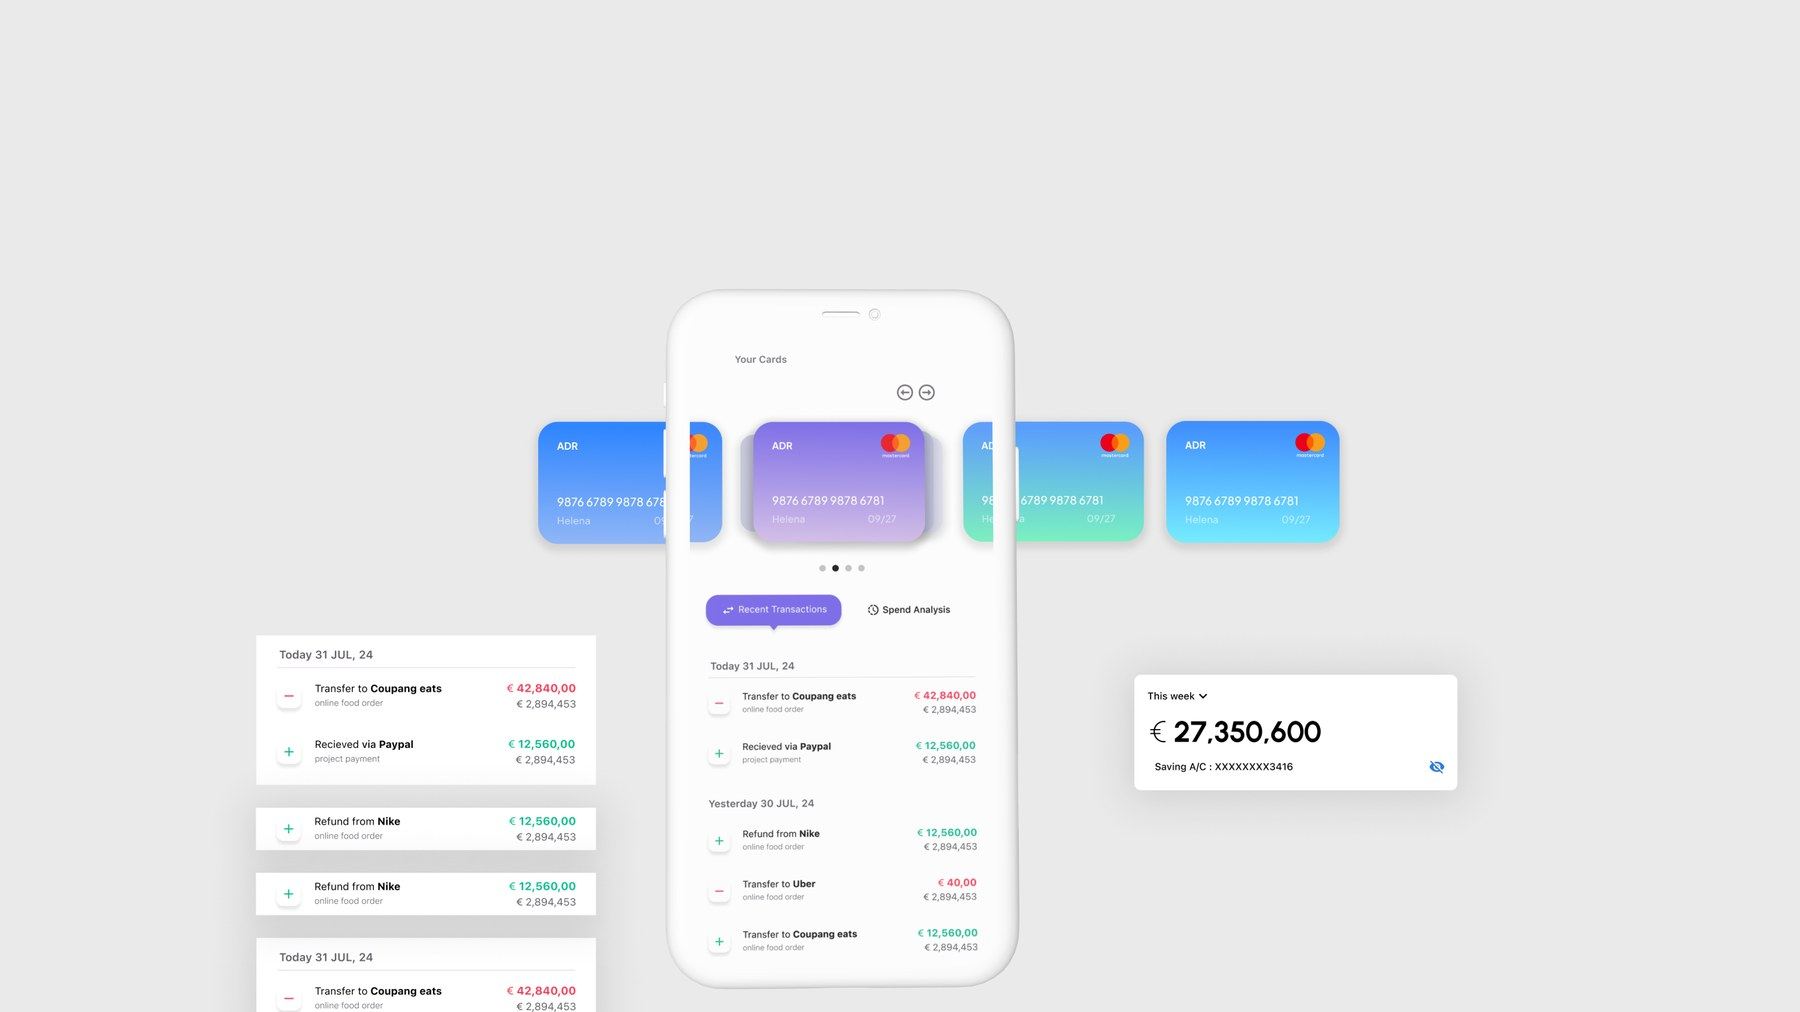
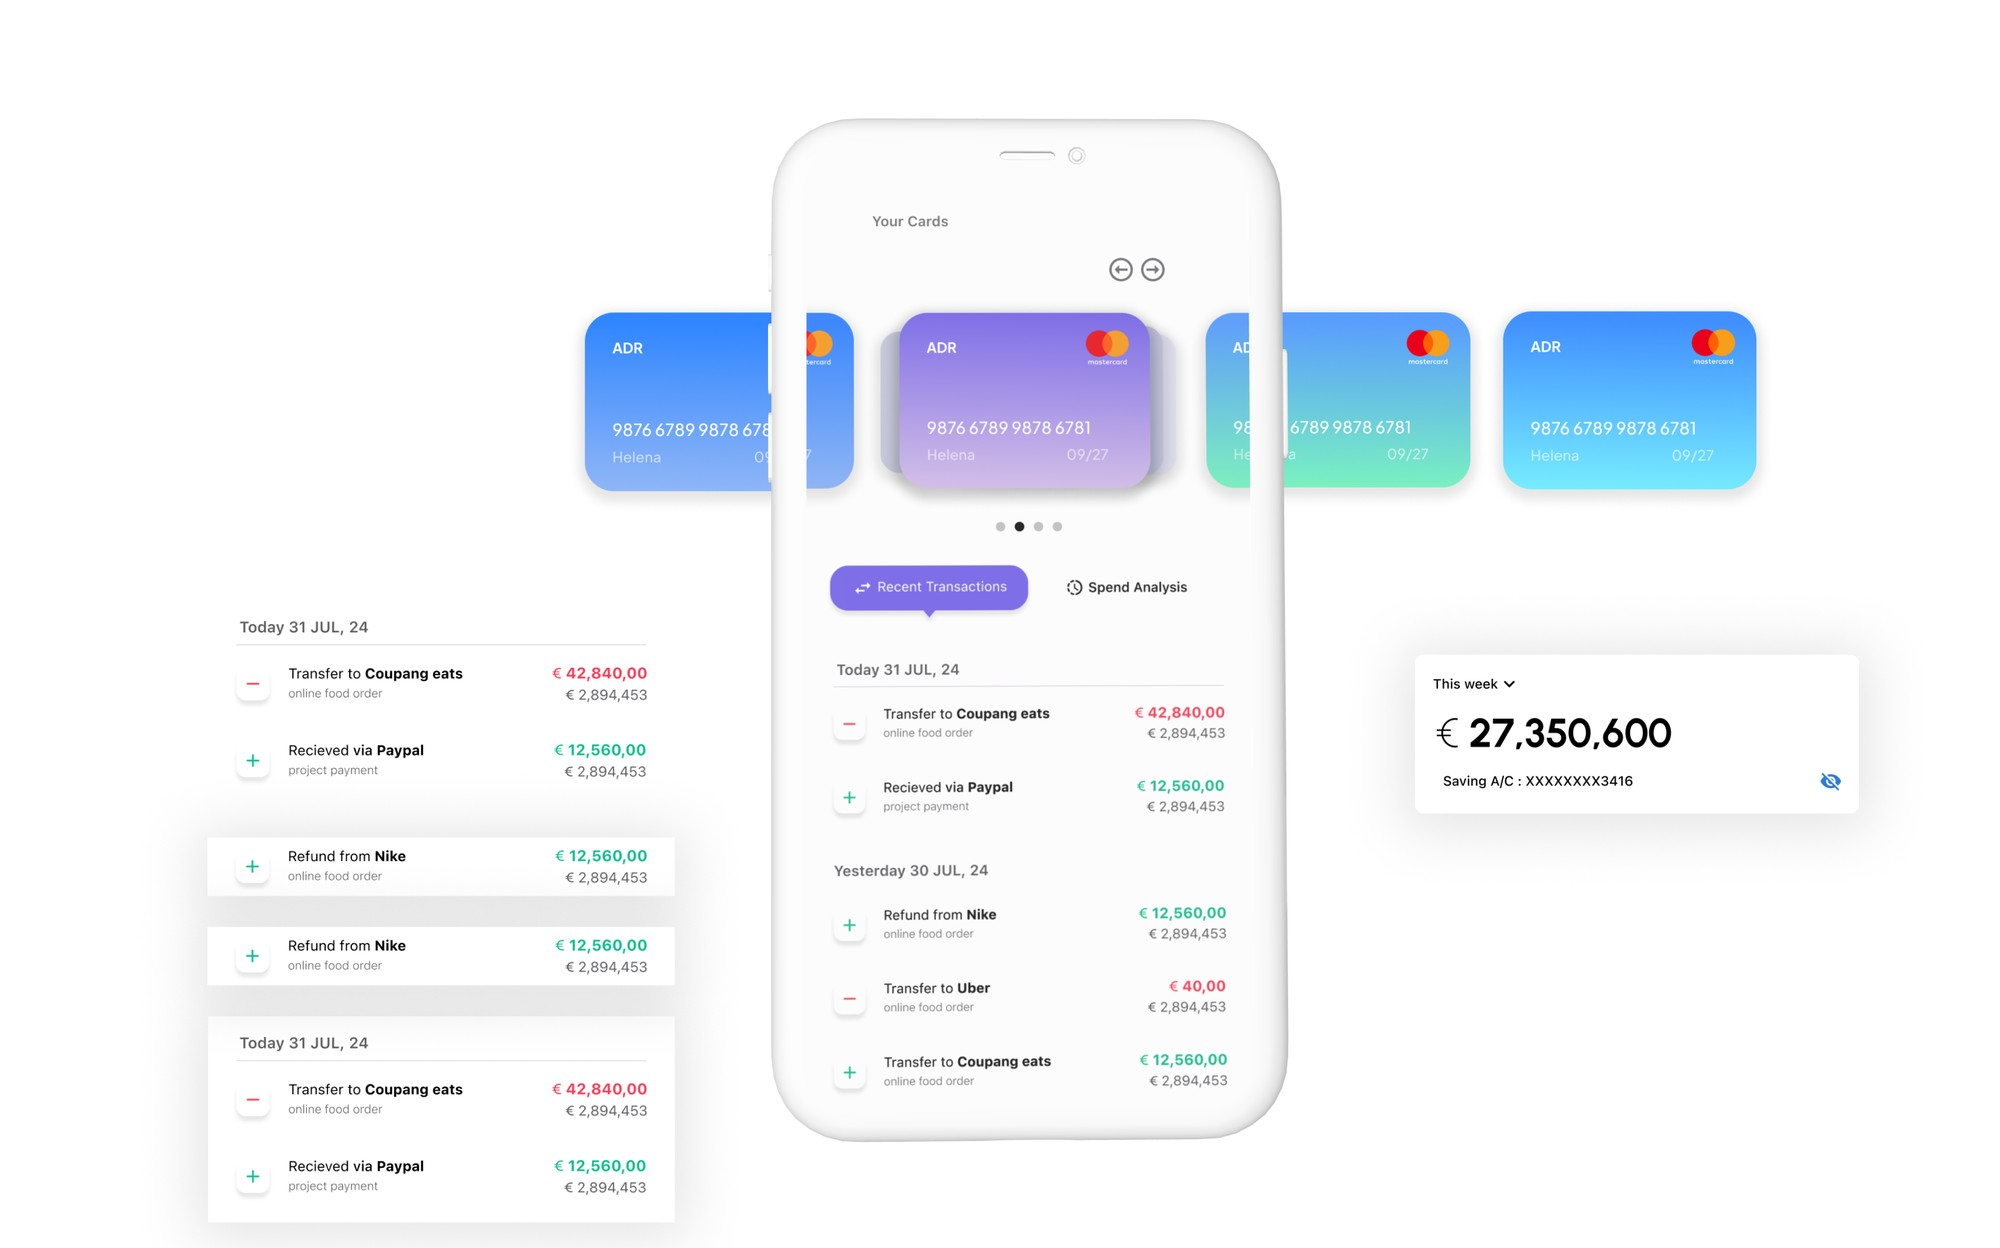
Replace Design Solution image with card list screenshot, remove gray bg for this instance only (inline style)

diff --git a/project-demo-pumkin-finance-dashboard.html b/project-demo-pumkin-finance-dashboard.html
@@ -250,7 +250,7 @@
       can see and feel.
     </p>
 
-    <div class="media-light">
+    <div class="media-light" style="background: transparent; padding: 0;">
       <img src="images/pumkin-goals-overview.jpg" alt="Mochi Pay 카드 캐러셀과 최근 거래내역, 잔액 화면">
     </div>
 
